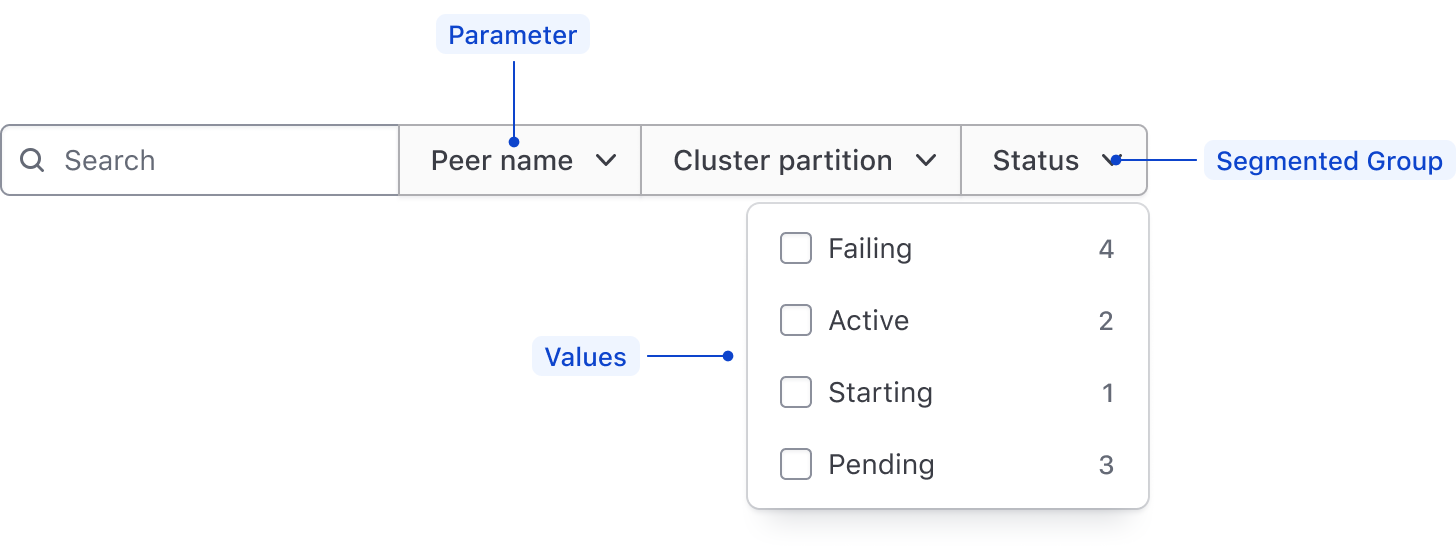
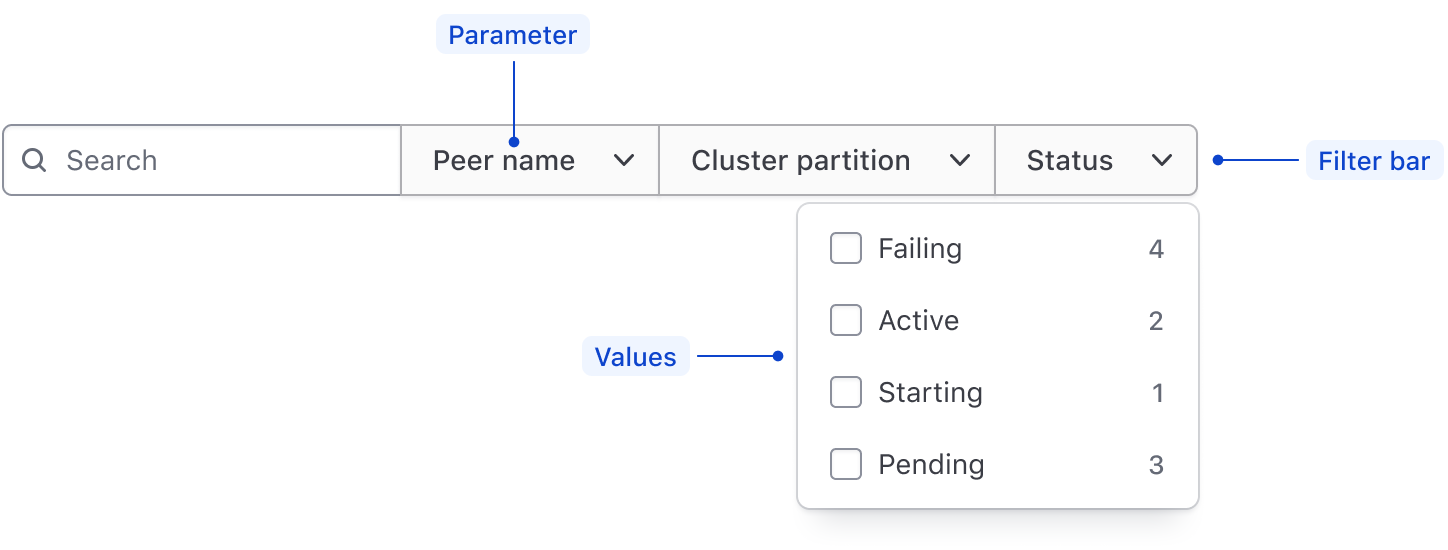
Updating images, adding documentation on global functions, adding documentation on using multiple segmented groups and grouping similar filters

diff --git a/website/docs/patterns/filter-patterns/partials/guidelines/guidelines.md b/website/docs/patterns/filter-patterns/partials/guidelines/guidelines.md
@@ -24,13 +24,17 @@ Filters often consist of numerous parameters that mirror the columns of a table 
 
 Organizing filters in a **filter bar** is a common positioning method and consists of one or more dropdowns, buttons, or input components that are used to select values from a set of parameters. A [Segmented Group](/components/segmented-group) can be used within a filter bar to group similar parameters and support complex filtering.
 
-A filter bar should be positioned directly above the data set with a a `16px` gap in between.
-
 ![Filter bar example](/assets/patterns/filter-patterns/filter-bar-segmented-group.png =728x*)
 
 **Example of a horizontal filter bar paired with a data set expressed as a table.**
 
 ![Horizontal orientation of the filter bar](/assets/patterns/filter-patterns/layout-filter-bar.png)
+
+Depending on the filter type and how they are related, multiple [Segmented Groups](/components/segmented-group) can be used to group similar filters together. For example; a [Search Input](/components/form/text-input#search) grouped with a [Dropdown](/components/dropdown) to limit the filter parameters that are included in the search.
+
+**Limiting the returned search results to a specific parameter**
+
+![Searching across a specific parameter](/assets/patterns/filter-patterns/filter-bar-similar-filters.png)
 
 #### Sidebar
 
@@ -54,7 +58,7 @@ Display **applied filters** and provide the user with a method to clear all filt
 
 ![Applied filters](/assets/patterns/filter-patterns/applied-filters.png =450x*)
 
-#### Positioning in filter bars
+#### Positioning with filter bars
 
 Applied filters should be positioned between the data set and the filter bar with a `16px` gap between elements.
 
@@ -67,6 +71,23 @@ In the case of a filter sidebar, the applied filters should be positioned direct
 If the filters are positioned in a page-level sidebar, sometimes displaying the applied filters isn't necessary because they are implied in the sidebar. An action to clear all of the filters should be included within the sidebar itself.
 
 ![Applied filters with clear all in the sidebar](/assets/patterns/filter-patterns/applied-filters-positioning-sidebar-clear-all.png)
+
+### Global filter functions
+
+Depending on the fetching method and complexity of the data set, global filter functions can be used to expose methods that effect the entire data set. Global functions should be differentiated from the primary filters and aligned to the end of the data set. Examples include:
+
+- Manually refreshing the data set
+- Triggering a [Flyout](/components/flyout) with more complex filters
+
+**Multiple global functions within the filter bar**
+
+![Multiple global functions](/assets/patterns/filter-patterns/global-filter-functions.png)
+
+**Single function within the filter bar**
+
+![Single function](/assets/patterns/filter-patterns/global-filter-functions-single.png)
+
+In the case a multiple filter functions, use the [Segmented Group](/components/segmented-group). If only a single function is necessary, use the secondary [Button](/components/button#secondary).
 
 ### Pagination
 
